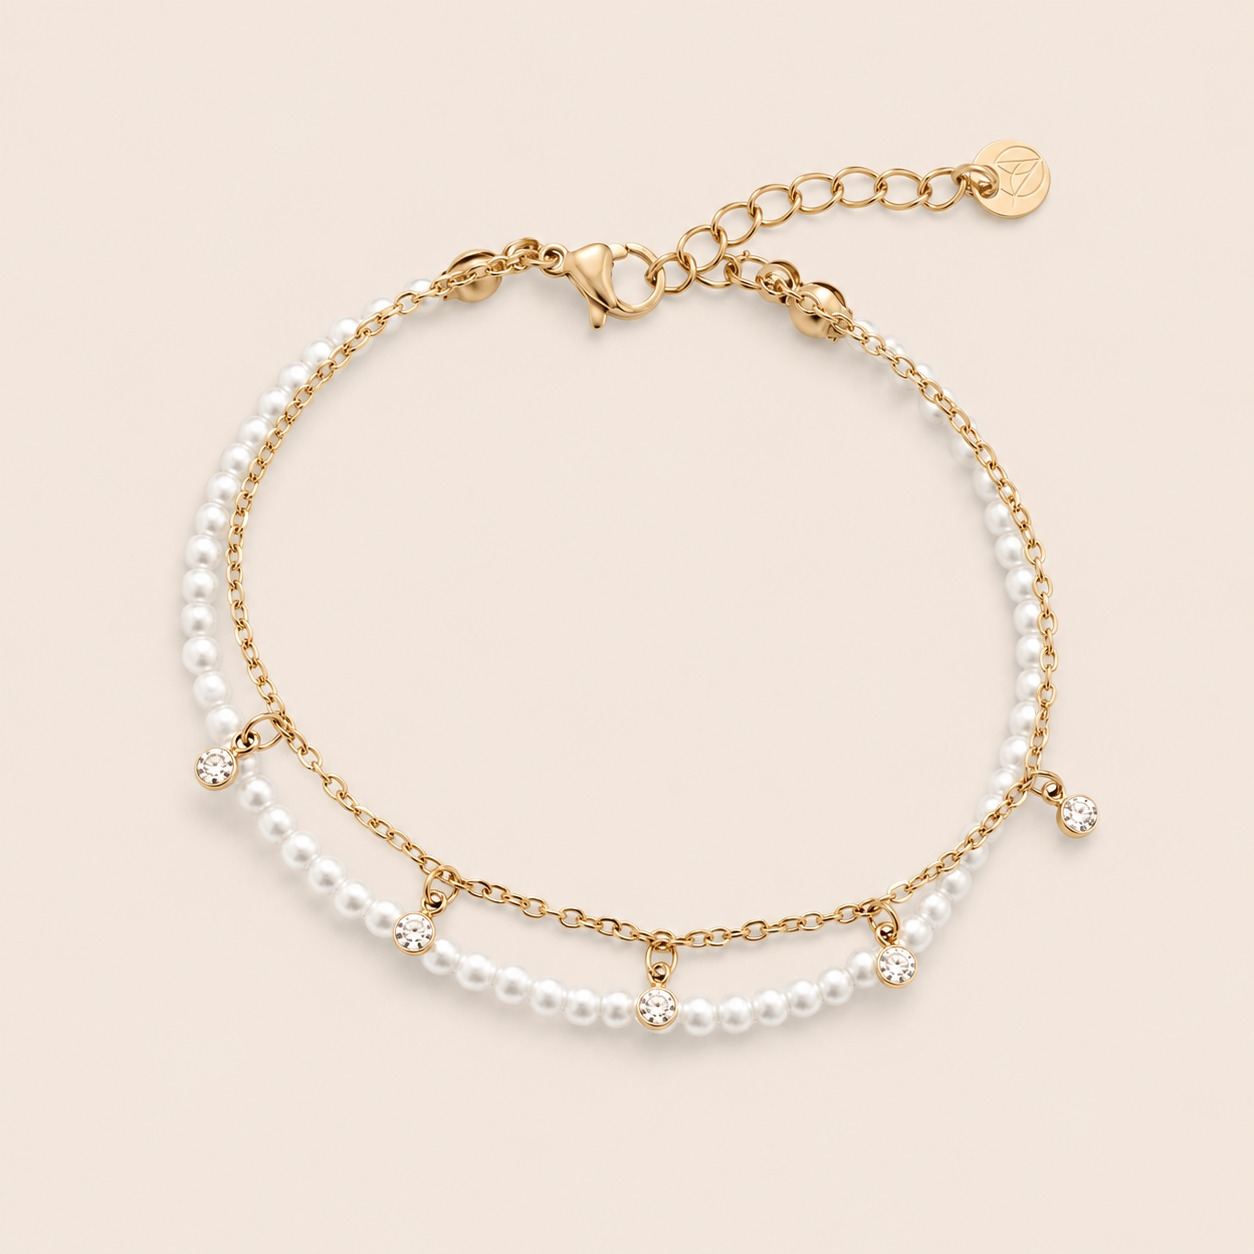
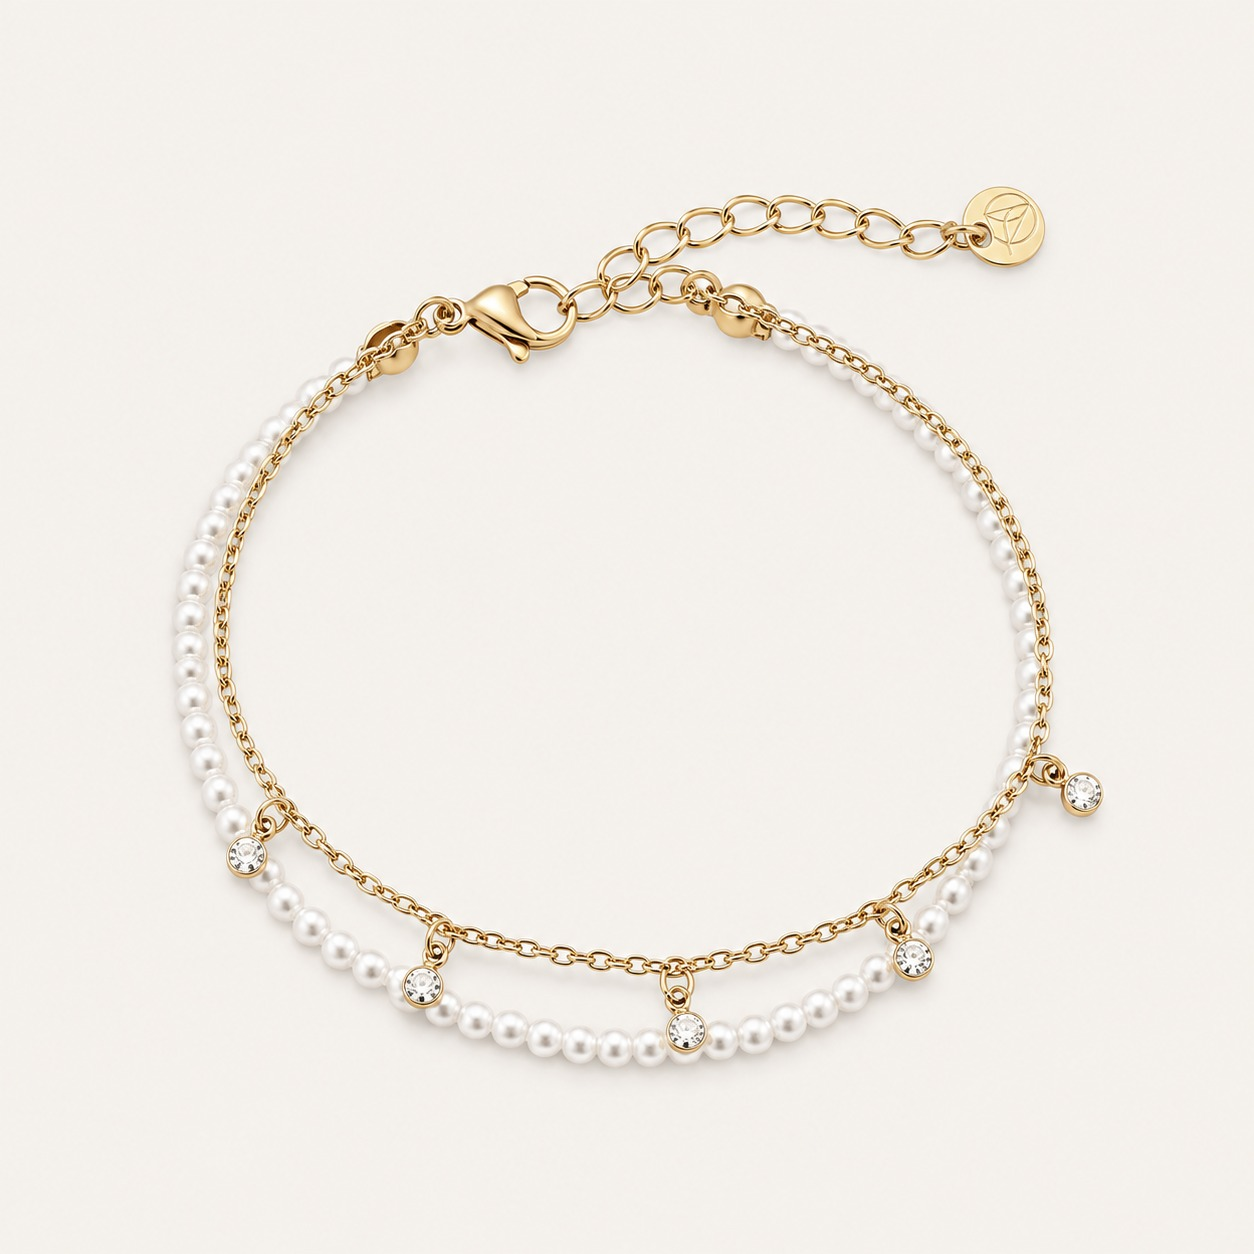
Pearl #F4EFE6 pozadie: Studio fotky vsetkych 11 produktov (2 iteracie + watchdog), galeria: anklet=3 fotky, ostatne=4 (modelka 1+2), B8DCC modelka opravena (5 lupenov)

Changed region(s): [[0.1244, 0.0933, 0.9019, 0.8708]]

diff --git a/products_v4.js b/products_v4.js
@@ -4,15 +4,15 @@ var COLLS = {"sun-gold": "Sun Gold", "moon-silver": "Moon Silver"};
 var MATS = {"striebro": "Striebro 925", "ocel": "Chirurgická oceľ", "pozlacene": "Pozlátené striebro"};
 var PLATS = {"zlata": "Zlatá", "rodio": "Ródiovaná", "bez": "Bez pokovenia"};
 var PRODUCTS = [
-  {id:0, n:'Nastaviteľný prsteň s kvetom a ružovými zirkónmi', t:'prstene', m:'ocel', pl:'zlata', s:'zirkon', k:'sun-gold', c:11.9, img:'img/SEL-RI-9F4BA.jpg', sku:'SEL-RI-9F4BA', b:'novinka', gal:["img/SEL-RI-9F4BA.jpg", "img/SEL-RI-9F4BA_modelka_1.jpg", "img/SEL-RI-9F4BA_mockup.jpg"]},
+  {id:0, n:'Nastaviteľný prsteň s kvetom a ružovými zirkónmi', t:'prstene', m:'ocel', pl:'zlata', s:'zirkon', k:'sun-gold', c:11.9, img:'img/SEL-RI-9F4BA.jpg', sku:'SEL-RI-9F4BA', b:'novinka', gal:["img/SEL-RI-9F4BA.jpg", "img/SEL-RI-9F4BA_modelka_1.jpg", "img/SEL-RI-9F4BA_modelka_2.jpg", "img/SEL-RI-9F4BA_mockup.jpg"]},
   {id:1, n:'Retiazka na nohu 23 cm, dvojradová so zirkónmi', t:'anklety', m:'ocel', pl:'zlata', s:'zirkon', k:'sun-gold', c:17.95, img:'img/SEL-AN-01242.jpg', sku:'SEL-AN-01242', b:'novinka', gal:["img/SEL-AN-01242.jpg", "img/SEL-AN-01242_modelka_1.jpg", "img/SEL-AN-01242_mockup.jpg"]},
   {id:2, n:'Retiazka na nohu 23 cm, dvojradová s drobnými zirkónmi', t:'anklety', m:'ocel', pl:'zlata', s:'zirkon', k:'sun-gold', c:17.95, img:'img/SEL-AN-71DE4.jpg', sku:'SEL-AN-71DE4', b:'novinka', gal:["img/SEL-AN-71DE4.jpg", "img/SEL-AN-71DE4_modelka_1.jpg", "img/SEL-AN-71DE4_mockup.jpg"]},
-  {id:3, n:'Zlatý štvorlístok na retiazke 43 cm', t:'nahrdelniky', m:'ocel', pl:'zlata', s:'bez', k:'sun-gold', c:13.9, img:'img/SEL-NE-BB21B.jpg', sku:'SEL-NE-BB21B', b:'novinka', gal:["img/SEL-NE-BB21B.jpg", "img/SEL-NE-BB21B_modelka_1.jpg", "img/SEL-NE-BB21B_mockup.jpg"]},
-  {id:4, n:'Náramok 16 cm s kamienkami', t:'naramy', m:'ocel', pl:'zlata', s:'zirkon', k:'sun-gold', c:16.95, img:'img/SEL-BR-673C2.jpg', sku:'SEL-BR-673C2', b:'novinka', gal:["img/SEL-BR-673C2.jpg", "img/SEL-BR-673C2_modelka_1.jpg", "img/SEL-BR-673C2_mockup.jpg"]},
-  {id:5, n:'Náušnice s kvetom 10 mm, svetloružové', t:'nausnice', m:'ocel', pl:'zlata', s:'zirkon', k:'sun-gold', c:8.9, img:'img/SEL-EA-B8DCC.jpg', sku:'SEL-EA-B8DCC', b:'novinka', gal:["img/SEL-EA-B8DCC.jpg", "img/SEL-EA-B8DCC_modelka_1.jpg", "img/SEL-EA-B8DCC_mockup.jpg"]},
-  {id:6, n:'Náušnice 17 mm s obdĺžnikovými zirkónmi', t:'nausnice', m:'ocel', pl:'zlata', s:'zirkon', k:'sun-gold', c:14.9, img:'img/SEL-EA-37240.jpg', sku:'SEL-EA-37240', b:'novinka', gal:["img/SEL-EA-37240.jpg", "img/SEL-EA-37240_modelka_1.jpg", "img/SEL-EA-37240_mockup.jpg"]},
-  {id:7, n:'Náhrdelník 40 cm s kruhom zo zirkónov', t:'nahrdelniky', m:'ocel', pl:'zlata', s:'zirkon', k:'sun-gold', c:13.9, img:'img/SEL-NE-1C80D.jpg', sku:'SEL-NE-1C80D', b:'novinka', gal:["img/SEL-NE-1C80D.jpg", "img/SEL-NE-1C80D_modelka_1.jpg", "img/SEL-NE-1C80D_mockup.jpg"]},
-  {id:8, n:'Prsteň s drobnými perlami 2 mm', t:'prstene', m:'ocel', pl:'zlata', s:'perla', k:'sun-gold', c:9.9, img:'img/SEL-RI-14337.jpg', sku:'SEL-RI-14337', b:'novinka', gal:["img/SEL-RI-14337.jpg", "img/SEL-RI-14337_modelka_1.jpg", "img/SEL-RI-14337_mockup.jpg"]},
-  {id:9, n:'Náramok 17 cm s kvetom a zirkónmi', t:'naramy', m:'ocel', pl:'zlata', s:'zirkon', k:'sun-gold', c:11.9, img:'img/SEL-BR-9DBC9.jpg', sku:'SEL-BR-9DBC9', b:'novinka', gal:["img/SEL-BR-9DBC9.jpg", "img/SEL-BR-9DBC9_modelka_1.jpg", "img/SEL-BR-9DBC9_mockup.jpg"]},
-  {id:10, n:'Náhrdelník 40 cm s dvoma kvetmi zo zirkónov', t:'nahrdelniky', m:'ocel', pl:'zlata', s:'zirkon', k:'sun-gold', c:14.9, img:'img/SEL-NE-C6B45.jpg', sku:'SEL-NE-C6B45', b:'novinka', gal:["img/SEL-NE-C6B45.jpg", "img/SEL-NE-C6B45_modelka_1.jpg", "img/SEL-NE-C6B45_mockup.jpg"]},
+  {id:3, n:'Zlatý štvorlístok na retiazke 43 cm', t:'nahrdelniky', m:'ocel', pl:'zlata', s:'bez', k:'sun-gold', c:13.9, img:'img/SEL-NE-BB21B.jpg', sku:'SEL-NE-BB21B', b:'novinka', gal:["img/SEL-NE-BB21B.jpg", "img/SEL-NE-BB21B_modelka_1.jpg", "img/SEL-NE-BB21B_modelka_2.jpg", "img/SEL-NE-BB21B_mockup.jpg"]},
+  {id:4, n:'Náramok 16 cm s kamienkami', t:'naramy', m:'ocel', pl:'zlata', s:'zirkon', k:'sun-gold', c:16.95, img:'img/SEL-BR-673C2.jpg', sku:'SEL-BR-673C2', b:'novinka', gal:["img/SEL-BR-673C2.jpg", "img/SEL-BR-673C2_modelka_1.jpg", "img/SEL-BR-673C2_modelka_2.jpg", "img/SEL-BR-673C2_mockup.jpg"]},
+  {id:5, n:'Náušnice s kvetom 10 mm, svetloružové', t:'nausnice', m:'ocel', pl:'zlata', s:'zirkon', k:'sun-gold', c:8.9, img:'img/SEL-EA-B8DCC.jpg', sku:'SEL-EA-B8DCC', b:'novinka', gal:["img/SEL-EA-B8DCC.jpg", "img/SEL-EA-B8DCC_modelka_1.jpg", "img/SEL-EA-B8DCC_modelka_2.jpg", "img/SEL-EA-B8DCC_mockup.jpg"]},
+  {id:6, n:'Náušnice 17 mm s obdĺžnikovými zirkónmi', t:'nausnice', m:'ocel', pl:'zlata', s:'zirkon', k:'sun-gold', c:14.9, img:'img/SEL-EA-37240.jpg', sku:'SEL-EA-37240', b:'novinka', gal:["img/SEL-EA-37240.jpg", "img/SEL-EA-37240_modelka_1.jpg", "img/SEL-EA-37240_modelka_2.jpg", "img/SEL-EA-37240_mockup.jpg"]},
+  {id:7, n:'Náhrdelník 40 cm s kruhom zo zirkónov', t:'nahrdelniky', m:'ocel', pl:'zlata', s:'zirkon', k:'sun-gold', c:13.9, img:'img/SEL-NE-1C80D.jpg', sku:'SEL-NE-1C80D', b:'novinka', gal:["img/SEL-NE-1C80D.jpg", "img/SEL-NE-1C80D_modelka_1.jpg", "img/SEL-NE-1C80D_modelka_2.jpg", "img/SEL-NE-1C80D_mockup.jpg"]},
+  {id:8, n:'Prsteň s drobnými perlami 2 mm', t:'prstene', m:'ocel', pl:'zlata', s:'perla', k:'sun-gold', c:9.9, img:'img/SEL-RI-14337.jpg', sku:'SEL-RI-14337', b:'novinka', gal:["img/SEL-RI-14337.jpg", "img/SEL-RI-14337_modelka_1.jpg", "img/SEL-RI-14337_modelka_2.jpg", "img/SEL-RI-14337_mockup.jpg"]},
+  {id:9, n:'Náramok 17 cm s kvetom a zirkónmi', t:'naramy', m:'ocel', pl:'zlata', s:'zirkon', k:'sun-gold', c:11.9, img:'img/SEL-BR-9DBC9.jpg', sku:'SEL-BR-9DBC9', b:'novinka', gal:["img/SEL-BR-9DBC9.jpg", "img/SEL-BR-9DBC9_modelka_1.jpg", "img/SEL-BR-9DBC9_modelka_2.jpg", "img/SEL-BR-9DBC9_mockup.jpg"]},
+  {id:10, n:'Náhrdelník 40 cm s dvoma kvetmi zo zirkónov', t:'nahrdelniky', m:'ocel', pl:'zlata', s:'zirkon', k:'sun-gold', c:14.9, img:'img/SEL-NE-C6B45.jpg', sku:'SEL-NE-C6B45', b:'novinka', gal:["img/SEL-NE-C6B45.jpg", "img/SEL-NE-C6B45_modelka_1.jpg", "img/SEL-NE-C6B45_modelka_2.jpg", "img/SEL-NE-C6B45_mockup.jpg"]},
 ];
